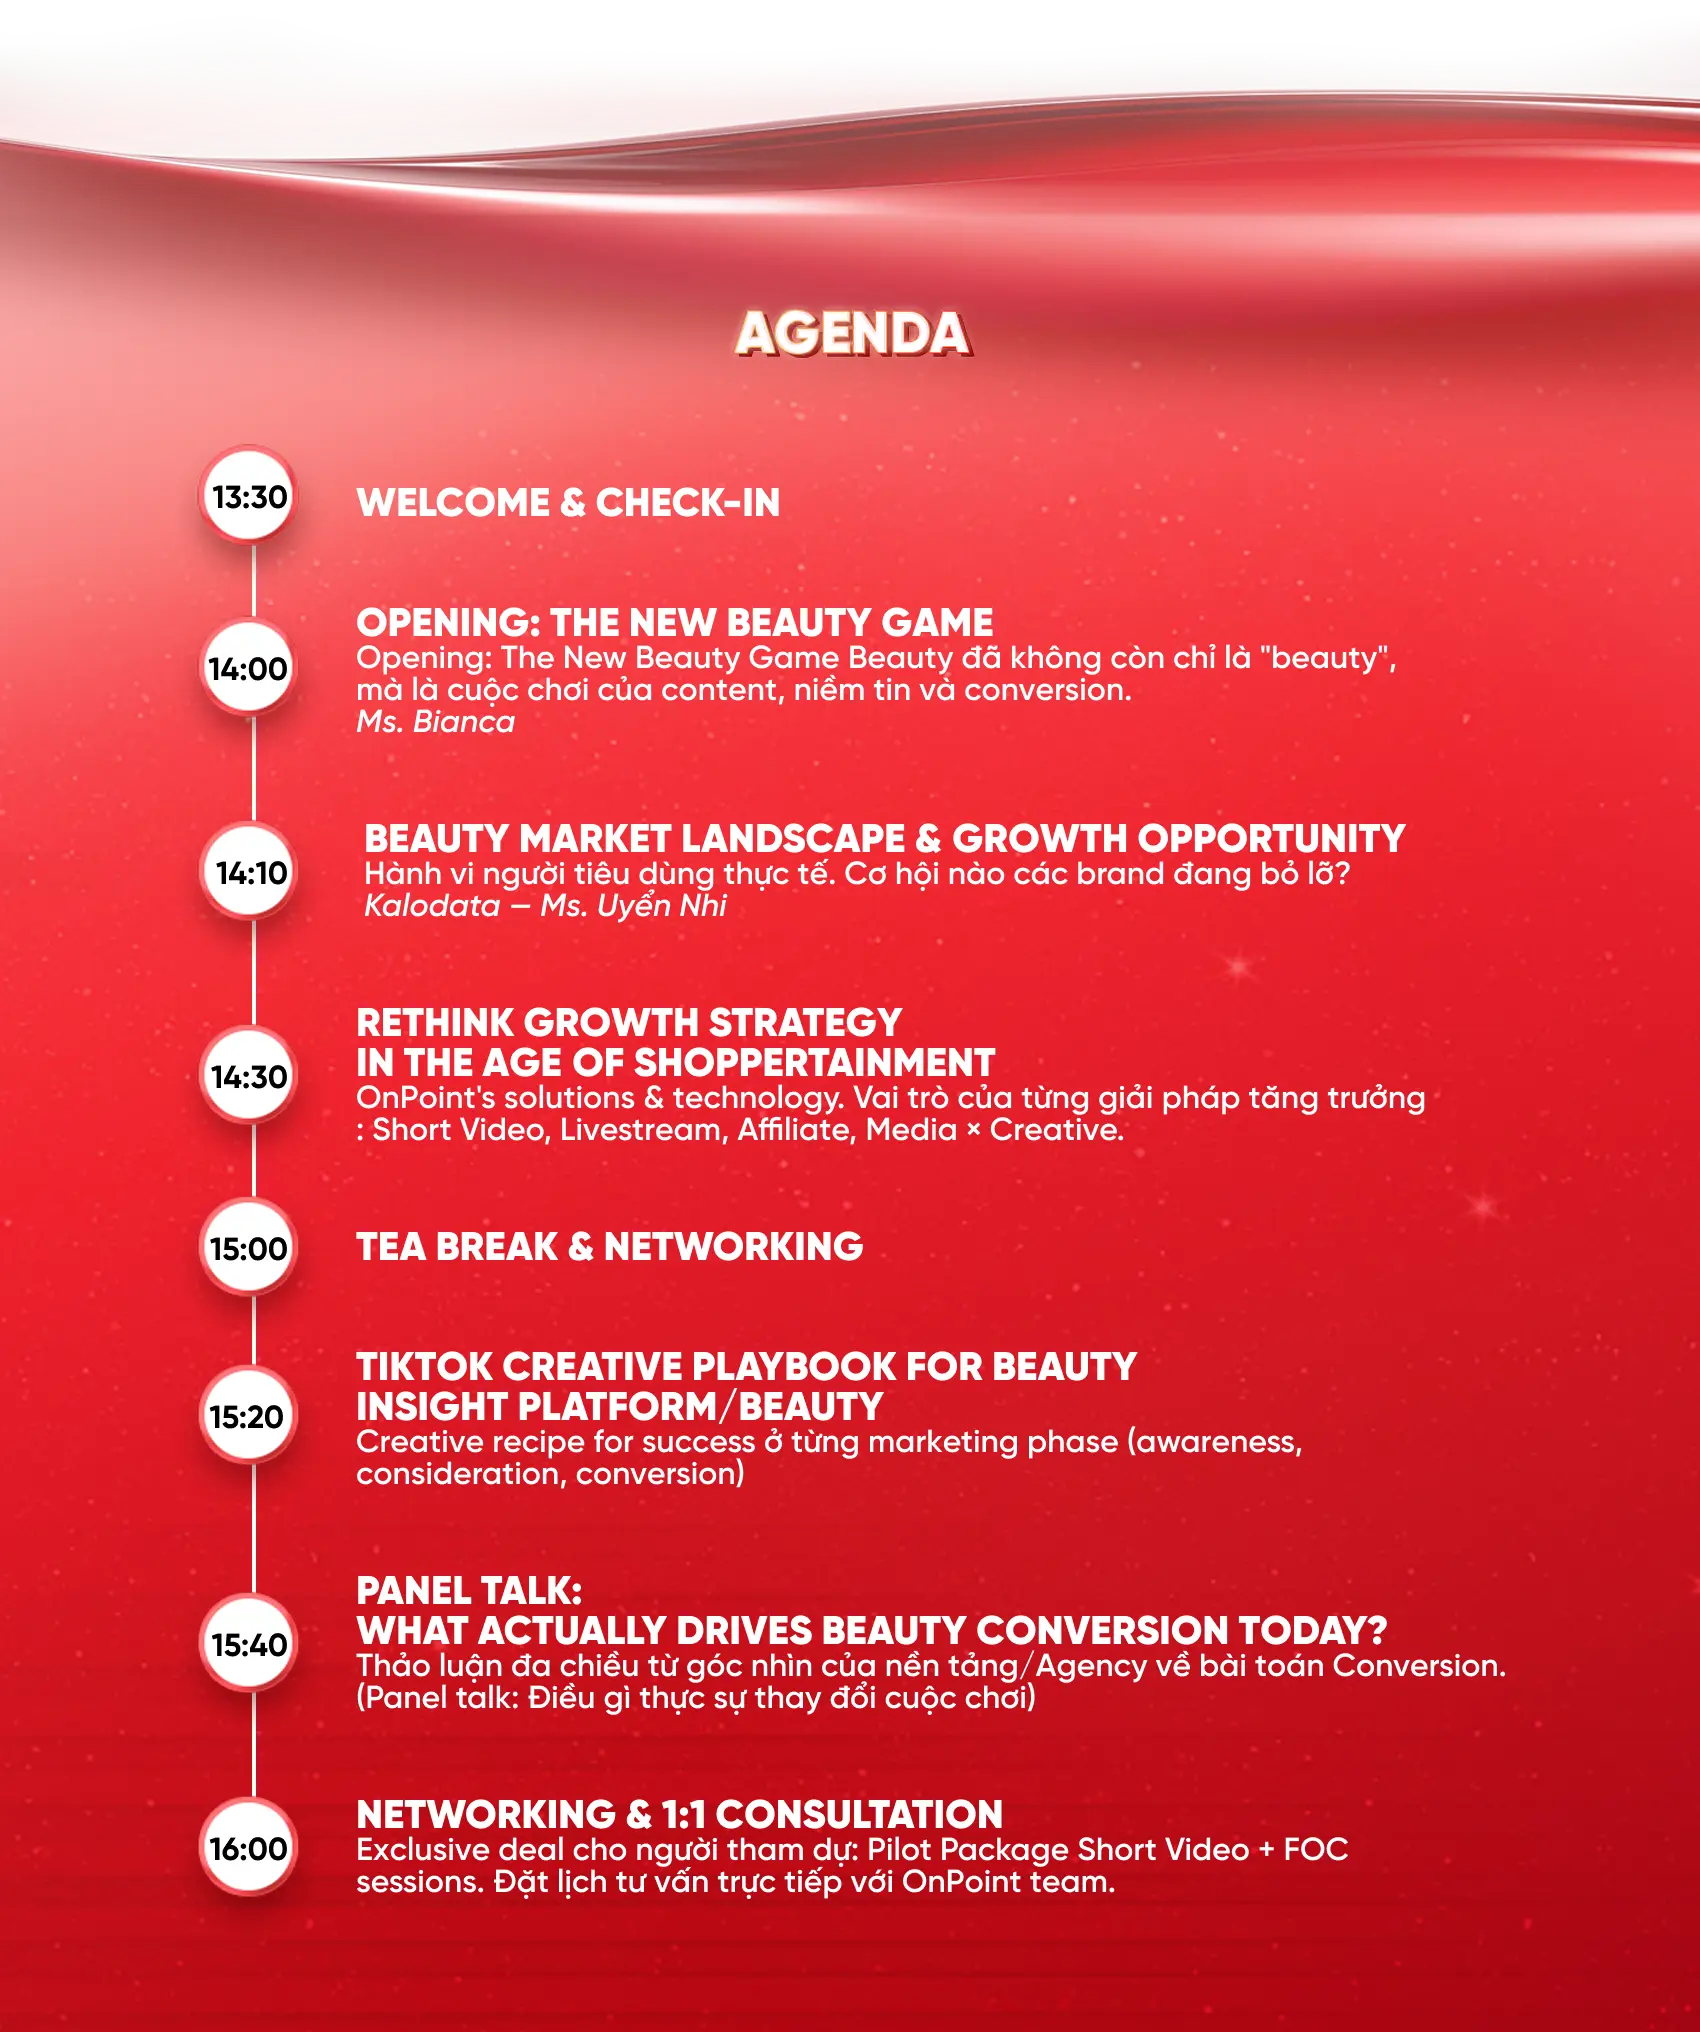
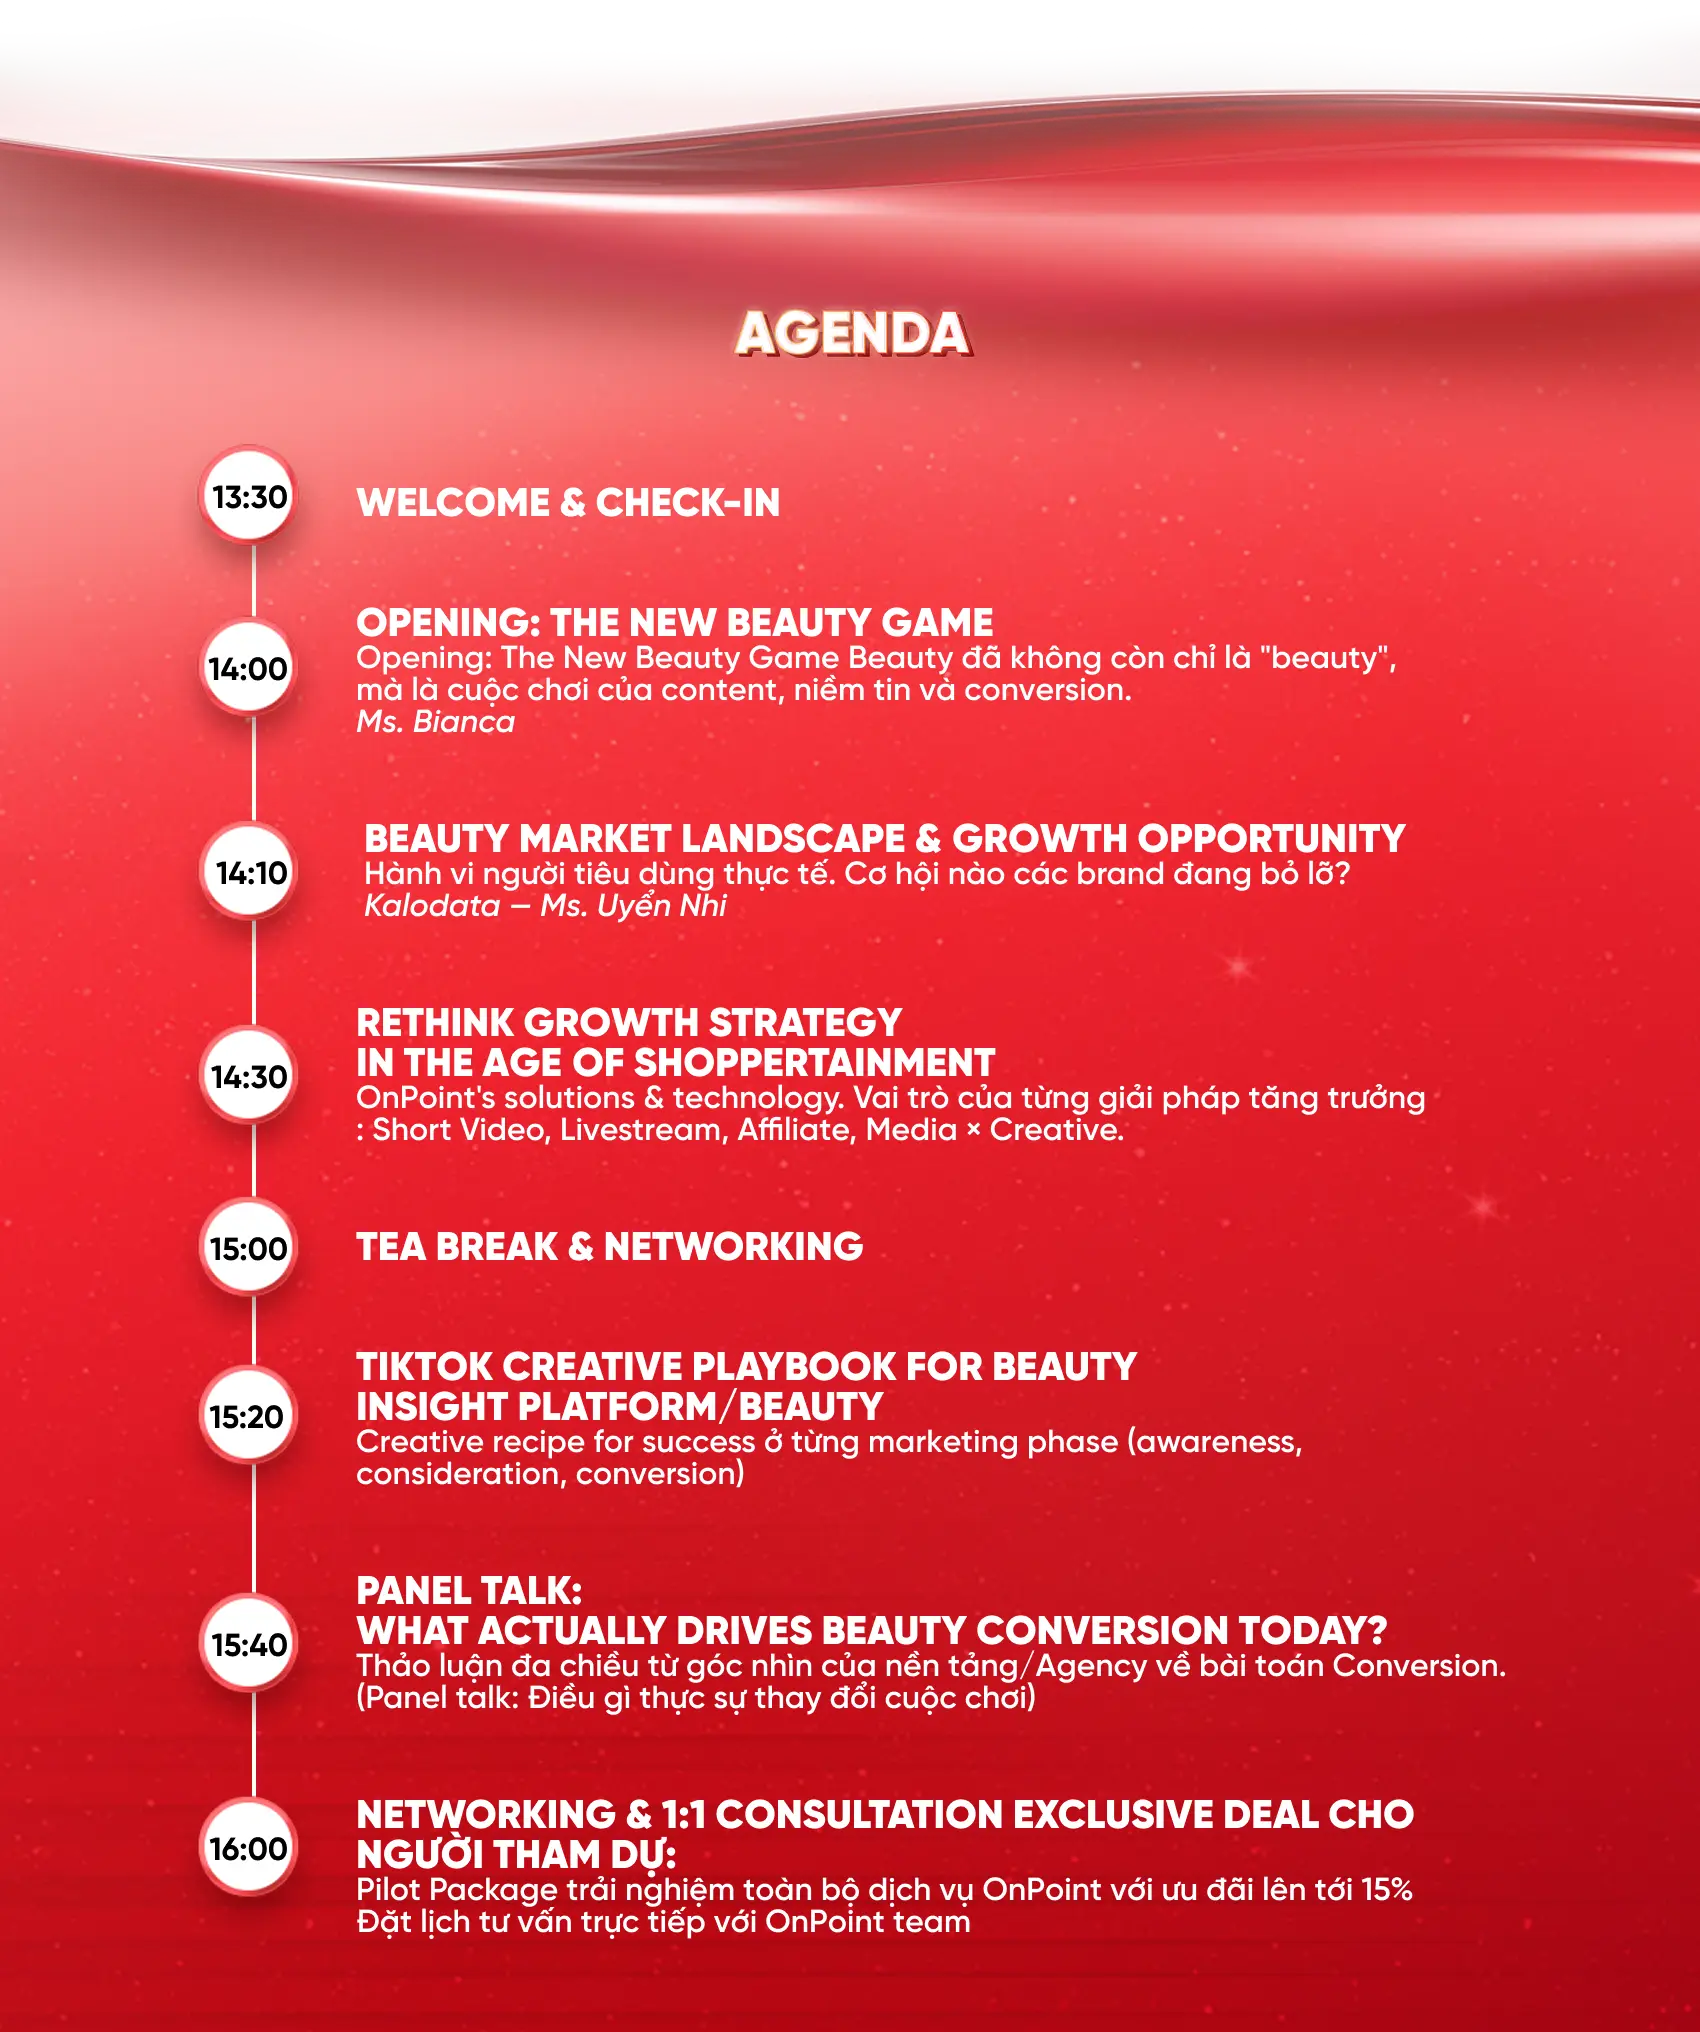
fix: update image dimensions in AgendaSection and replace agenda images

Changed region(s): [[0.1871, 0.8681, 0.8418, 0.9611]]

diff --git a/components/may-beauty-roadshow/AgendaSection.tsx b/components/may-beauty-roadshow/AgendaSection.tsx
@@ -8,6 +8,7 @@ import { figmaAssets } from "./figma-assets";
 export function AgendaSection() {
   return (
     <section
+      id="agenda-section"
       className="relative w-full overflow-hidden"
       aria-label="Event Agenda"
     >
@@ -16,7 +17,7 @@ export function AgendaSection() {
           src={figmaAssets.agendaSectionMobile}
           alt="Agenda - Event Schedule"
           width={425}
-          height={546}
+          height={508}
           className="block h-auto w-full"
           sizes="100vw"
           priority
@@ -28,7 +29,7 @@ export function AgendaSection() {
           src={figmaAssets.agendaSection}
           alt="Agenda - Event Schedule"
           width={1440}
-          height={1730}
+          height={1697}
           className="block h-auto w-full"
           sizes="100vw"
           priority
